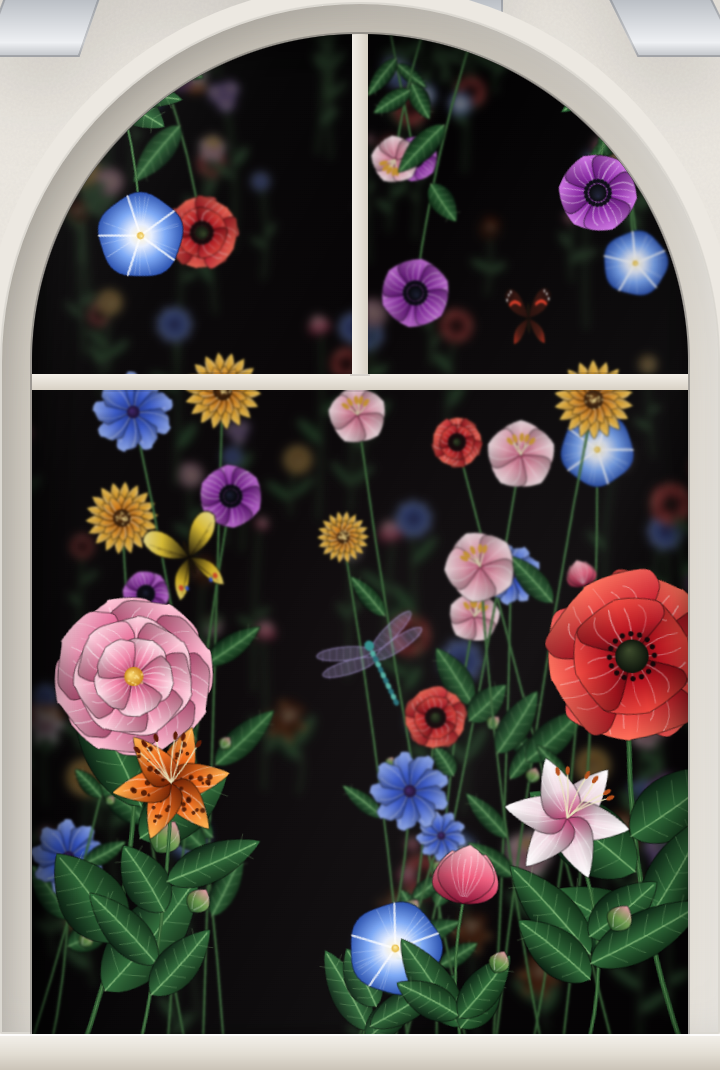
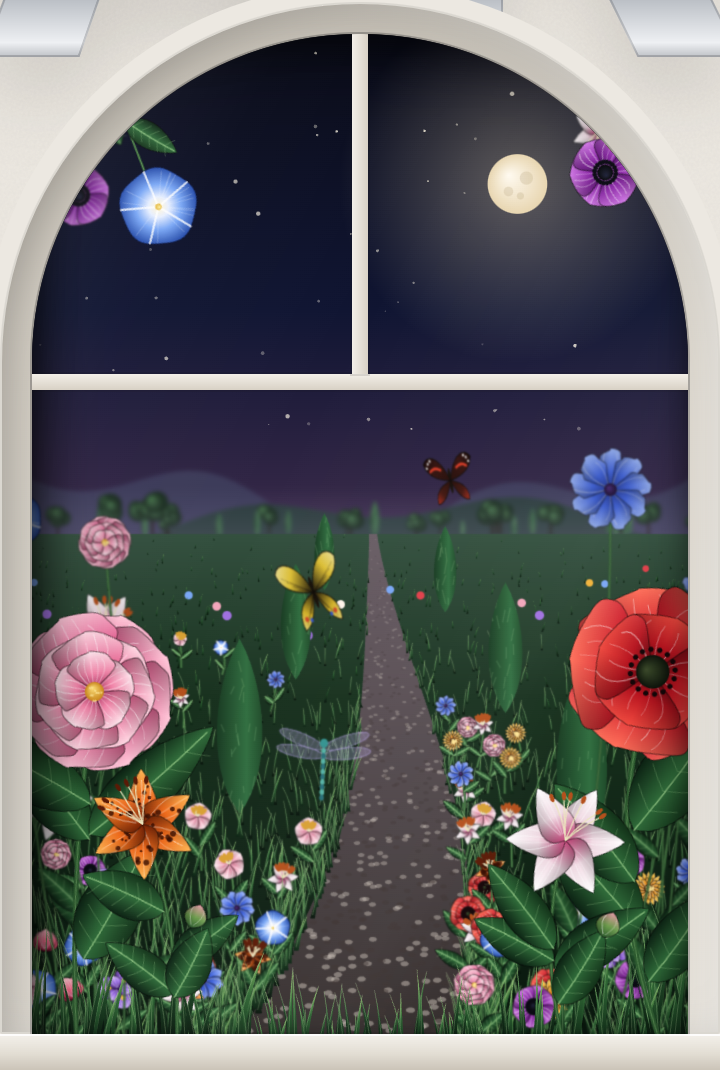
Chrome sample: give the window a real view
Night sky and moon, layered hills and tree line, a painted lawn with a
gravel path and receding cypresses, with the Flora blooms framing the
sides and tall grass against the glass.

Claude-Session: https://claude.ai/code/session_01CiHBQik5yBoamCM1rt8jkr

diff --git a/docs/redesign-samples/chrome.html b/docs/redesign-samples/chrome.html
@@ -71,8 +71,9 @@
   .pane { position: absolute; inset: 16px 16px 0; border-radius: 999px 999px 0 0; overflow: hidden; background: radial-gradient(ellipse 90% 70% at 50% 60%, #0f0b0d 0%, #030203 80%);
     box-shadow: 0 0 0 1px rgba(13,13,15,.25); }
   .pane canvas { position: absolute; top: -30px; left: -30px; width: calc(100% + 60px); height: calc(100% + 60px); display: block; will-change: transform; }
-  .pane .g-far { filter: blur(2.2px) brightness(.5) saturate(.85); }
-  .pane .g-mid { filter: blur(.5px) brightness(.88); }
+  .pane .g-far { filter: blur(1.1px) saturate(.8); }
+  .pane .g-lawn { filter: blur(.3px); }
+  .pane .g-mid { filter: blur(.4px) brightness(.9); }
   .pane .glass { position: absolute; inset: 0; pointer-events: none;
     background: linear-gradient(118deg, rgba(255,255,255,.10) 0%, rgba(255,255,255,.02) 22%, transparent 40%, rgba(255,255,255,.04) 70%, transparent 80%);
     box-shadow: inset 18px 0 24px -14px rgba(0,0,0,.85), inset 0 22px 30px -18px rgba(0,0,0,.8), inset -10px 0 20px -14px rgba(0,0,0,.6); }
@@ -217,7 +218,7 @@
         <div class="line"><a href="#looks"><span class="num">13.8×</span><span class="big">Faster, same model</span><span class="sm">Inside KV Capsules, the research that stops agents rereading their own rules.</span></a></div>
         <div class="line"><a href="#looks"><span class="big">Local CI with a bouncer</span><span class="sm">OctoCheck and the policy gate between GitHub and my desk.</span></a></div>
       </div>
-      <div class="window" aria-hidden="true"><div class="niche"><div class="pane"><canvas class="g-far"></canvas><canvas class="g-mid"></canvas><canvas class="g-near"></canvas><span class="glass"></span><span class="bar h"></span><span class="bar v"></span></div></div><div class="sill"></div></div>
+      <div class="window" aria-hidden="true"><div class="niche"><div class="pane"><canvas class="g-sky"></canvas><canvas class="g-far"></canvas><canvas class="g-lawn"></canvas><canvas class="g-mid"></canvas><canvas class="g-near"></canvas><span class="glass"></span><span class="bar h"></span><span class="bar v"></span></div></div><div class="sill"></div></div>
       <div class="lines r">
         <div class="line"><a href="#contents"><span class="big">“I am not middleware”</span><span class="sm">25 tickets shipped overnight, and what that did to my job.</span></a></div>
         <div class="line"><a href="#looks"><span class="big">Now showing: five tools</span><span class="sm">Research, local CI, a product and two developer tools.</span></a></div>
@@ -319,7 +320,7 @@
 (function () {
   var reduce = window.matchMedia('(prefers-reduced-motion: reduce)').matches;
   var pane = document.querySelector('.pane'); if (!pane) return;
-  var cFar = pane.querySelector('.g-far'), cMid = pane.querySelector('.g-mid'), cNear = pane.querySelector('.g-near');
+  var cSky = pane.querySelector('.g-sky'), cLawn = pane.querySelector('.g-lawn'), cFar = pane.querySelector('.g-far'), cMid = pane.querySelector('.g-mid'), cNear = pane.querySelector('.g-near');
   var W, H, DPR, S, M = 30, seed = 5, t0 = performance.now();
   var mid = [], near = [], flyers = [], px = 0, py = 0, tpx = 0, tpy = 0;
   function rnd() { seed = (seed * 16807) % 2147483647; return (seed - 1) / 2147483646; }
@@ -510,33 +511,111 @@
     g.restore();
   }
 
+  function blade(g, x, y, h, w, lean, dark) {
+    var tx = x + lean * h, ty = y - h;
+    g.beginPath(); g.moveTo(x - w / 2, y); g.quadraticCurveTo(x + lean * h * .3, y - h * .6, tx, ty); g.quadraticCurveTo(x + lean * h * .35 + w * .2, y - h * .55, x + w / 2, y); g.closePath();
+    var gr = g.createLinearGradient(x, y, tx, ty); gr.addColorStop(0, dark ? '#06120a' : '#0b2112'); gr.addColorStop(.55, dark ? '#1d4424' : '#2f6634'); gr.addColorStop(1, dark ? '#4f7f45' : '#8cbf66');
+    g.fillStyle = gr; g.fill();
+    if (h > 8) { g.beginPath(); g.moveTo(x, y - h * .1); g.quadraticCurveTo(x + lean * h * .3, y - h * .6, tx, ty); g.strokeStyle = 'rgba(210,240,180,.22)'; g.lineWidth = .5; g.stroke(); }
+  }
+  function tree(g, x, y, h, kind) {
+    if (kind === 'cypress') {
+      var w = h * .2;
+      g.beginPath(); g.moveTo(x, y);
+      g.bezierCurveTo(x - w * 1.1, y - h * .3, x - w * .6, y - h * .8, x, y - h);
+      g.bezierCurveTo(x + w * .6, y - h * .8, x + w * 1.1, y - h * .3, x, y); g.closePath();
+      var gr = g.createLinearGradient(x - w, 0, x + w, 0); gr.addColorStop(0, '#0e2615'); gr.addColorStop(.6, '#316e40'); gr.addColorStop(1, '#12301a');
+      g.fillStyle = gr; g.fill();
+      g.save(); g.clip(); g.strokeStyle = 'rgba(160,210,150,.18)'; g.lineWidth = .6;
+      for (var i = 0; i < h / 3; i++) { var yy = y - R(0, h), xx = x + R(-w * .6, w * .6); g.beginPath(); g.moveTo(xx, yy); g.lineTo(xx + R(-2, 2), yy - R(3, 7)); g.stroke(); }
+      g.restore();
+    } else {
+      g.fillStyle = '#1a1208'; g.fillRect(x - h * .03, y - h * .45, h * .06, h * .45);
+      for (var k = 0; k < 5; k++) {
+        var cx = x + R(-h * .22, h * .22), cy = y - h * R(.55, .85), rr = h * R(.2, .3);
+        var cg = g.createRadialGradient(cx - rr * .4, cy - rr * .4, 0, cx, cy, rr); cg.addColorStop(0, '#3f7a44'); cg.addColorStop(1, '#0c2012');
+        g.fillStyle = cg; g.beginPath(); g.arc(cx, cy, rr, 0, 7); g.fill();
+      }
+    }
+  }
+
   function build() {
     DPR = Math.min(window.devicePixelRatio || 1, 2);
     var r = pane.getBoundingClientRect(); W = r.width; H = r.height; if (W < 2 || H < 2) return false;
     S = W / 330; seed = 5; mid = []; near = []; flyers = [];
-    var LW = W + M * 2, LH = H + M * 2, i;
+    var LW = W + M * 2, LH = H + M * 2, hy = M + H * .5, vx = M + W * .52, i, g;
 
-    // far: a dense, dim bed of small flowers, softened by CSS blur
-    var g = size(cFar, LW, LH);
-    for (i = 0; i < 120; i++) {
-      var y = M + H * (1 - Math.pow(rnd(), 1.05)) + 20, x = R(0, LW), rr = R(5, 11) * S * (.7 + .5 * (y / LH));
-      var sp = spray(UPRIGHT[Math.floor(rnd() * UPRIGHT.length)], rr, R(20, 90) * S, false);
-      g.drawImage(sp.c, x - sp.w / 2, y - sp.h, sp.w, sp.h);
+    // sky: deep night, a painted moon and stars
+    g = size(cSky, LW, LH);
+    var sg = g.createLinearGradient(0, 0, 0, hy); sg.addColorStop(0, '#05060f'); sg.addColorStop(.6, '#101532'); sg.addColorStop(1, '#3a2a4a');
+    g.fillStyle = sg; g.fillRect(0, 0, LW, LH);
+    for (i = 0; i < 60; i++) { g.fillStyle = 'rgba(255,248,230,' + R(.2, .8) + ')'; g.beginPath(); g.arc(R(0, LW), R(0, hy * .85), R(.3, 1.1), 0, 7); g.fill(); }
+    var mx0 = M + W * .74, my0 = M + H * .15, mr = 15 * S;
+    var halo = g.createRadialGradient(mx0, my0, mr, mx0, my0, mr * 6); halo.addColorStop(0, 'rgba(255,238,200,.28)'); halo.addColorStop(1, 'rgba(255,238,200,0)');
+    g.fillStyle = halo; g.fillRect(0, 0, LW, LH);
+    var mg = g.createRadialGradient(mx0 - mr * .3, my0 - mr * .3, 0, mx0, my0, mr); mg.addColorStop(0, '#fffaf0'); mg.addColorStop(1, '#e8d6b0');
+    g.fillStyle = mg; g.beginPath(); g.arc(mx0, my0, mr, 0, 7); g.fill();
+    g.fillStyle = 'rgba(180,160,120,.25)'; [[.3, -.2, .22], [-.3, .25, .16], [.1, .4, .12]].forEach(function (c) { g.beginPath(); g.arc(mx0 + c[0] * mr, my0 + c[1] * mr, c[2] * mr, 0, 7); g.fill(); });
+
+    // far: two ranges of hills, a tree line, mist on the horizon
+    g = size(cFar, LW, LH);
+    function hills(y0, amp, col, seedOff) {
+      g.beginPath(); g.moveTo(0, LH);
+      for (var x = 0; x <= LW; x += 6) g.lineTo(x, y0 - amp * (.5 + .5 * Math.sin(x / (60 * S) + seedOff)) - amp * .4 * Math.sin(x / (23 * S) + seedOff * 2));
+      g.lineTo(LW, LH); g.closePath(); g.fillStyle = col; g.fill();
     }
-    for (i = 0; i < 14; i++) { var hsp = spray(HANGING[Math.floor(rnd() * HANGING.length)], R(5, 9) * S, R(20, 50) * S, false); g.save(); g.translate(R(0, LW), M - 6); g.rotate(Math.PI + R(-.4, .4)); g.drawImage(hsp.c, -hsp.w / 2, -hsp.h, hsp.w, hsp.h); g.restore(); }
+    hills(hy - 6 * S, 30 * S, '#3c3a60', 1.3);
+    hills(hy + 1, 16 * S, '#243a3a', 4.1);
+    for (i = 0; i < 34; i++) { var tx = R(0, LW); tree(g, tx, hy + R(0, 3) * S, R(9, 20) * S, rnd() < .45 ? 'cypress' : 'round'); }
+    var mist = g.createLinearGradient(0, hy - 24 * S, 0, hy + 16 * S); mist.addColorStop(0, 'rgba(170,160,200,0)'); mist.addColorStop(.6, 'rgba(170,160,200,.16)'); mist.addColorStop(1, 'rgba(170,160,200,0)');
+    g.fillStyle = mist; g.fillRect(0, hy - 24 * S, LW, 40 * S);
 
-    // mid: sprays rising from below and trailing from above
-    for (i = 0; i < 20; i++) mid.push({ sp: spray(UPRIGHT[Math.floor(rnd() * UPRIGHT.length)], R(12, 22) * S, R(90, 330) * S, rnd() < .4), x: M + R(-.05, 1.05) * W, y: M + H + 10, rot: R(-.25, .25), ph: R(0, 7), sw: R(.01, .025) });
-    for (i = 0; i < 7; i++) mid.push({ sp: spray(HANGING[Math.floor(rnd() * HANGING.length)], R(11, 18) * S, R(60, 170) * S, false), x: M + R(0, 1) * W, y: M - 10, rot: Math.PI + R(-.35, .35), ph: R(0, 7), sw: R(.01, .025) });
-    flyers.push(makeFlyer('swallowtail', 24 * S, M + W * .3, M + H * .5));
-    flyers.push(makeFlyer('admiral', 20 * S, M + W * .72, M + H * .3));
-    flyers.push(makeFlyer('dragonfly', 30 * S, M + W * .55, M + H * .62));
+    // lawn: a painted meadow receding to the horizon, a gravel path, beds of small flowers, trees at middle distance
+    g = size(cLawn, LW, LH);
+    var lg = g.createLinearGradient(0, hy, 0, LH); lg.addColorStop(0, '#34503f'); lg.addColorStop(.3, '#17301d'); lg.addColorStop(1, '#06120a');
+    g.fillStyle = lg; g.fillRect(0, hy, LW, LH - hy);
+    function pathAt(y) { var d = (y - hy) / (LH - hy); return { c: vx + Math.sin(d * 3.2 + .6) * 34 * S * d, hw: lerp(2 * S, W * .2, Math.pow(d, 1.25)) }; }
+    g.beginPath();
+    for (var yy = hy; yy <= LH; yy += 4) { var pl = pathAt(yy); g.lineTo(pl.c - pl.hw, yy); }
+    for (yy = LH; yy >= hy; yy -= 4) { var pr = pathAt(yy); g.lineTo(pr.c + pr.hw, yy); }
+    g.closePath();
+    var pg = g.createLinearGradient(0, hy, 0, LH); pg.addColorStop(0, '#6a5e66'); pg.addColorStop(1, '#2e2826');
+    g.fillStyle = pg; g.fill();
+    for (i = 0; i < 700; i++) { var gy = lerp(hy, LH, Math.pow(rnd(), .7)), pp = pathAt(gy), d0 = (gy - hy) / (LH - hy), st = .4 + d0 * 2.2; g.fillStyle = 'rgba(' + (rnd() < .5 ? '210,200,190' : '60,50,48') + ',' + (.15 + d0 * .4) + ')'; g.beginPath(); g.ellipse(pp.c + R(-pp.hw, pp.hw) * .95, gy, st, st * .6, 0, 0, 7); g.fill(); }
+    // everything on the lawn is painted back to front
+    var items = [];
+    for (i = 0; i < 2600; i++) items.push({ t: 'b', d: Math.pow(rnd(), .75) });
+    for (i = 0; i < 90; i++) items.push({ t: 'f', d: Math.pow(rnd(), .9) });
+    [[-1, .1], [1, .14], [-1, .26], [1, .32], [-1, .5], [1, .58]].forEach(function (c) { items.push({ t: 'c', d: c[1], side: c[0] }); });
+    items.sort(function (a, b) { return a.d - b.d; });
+    items.forEach(function (it) {
+      var y = lerp(hy, LH, it.d), p = pathAt(y);
+      if (it.t === 'c') { tree(g, p.c + it.side * (p.hw + lerp(14, 90, it.d) * S), y, lerp(26, 150, it.d) * S, 'cypress'); return; }
+      var x = R(0, LW);
+      if (Math.abs(x - p.c) < p.hw * .92) x = p.c + (x < p.c ? -1 : 1) * (p.hw * R(.92, 1.3));
+      if (it.t === 'b') blade(g, x, y + 1, lerp(2, 30, it.d) * S * R(.6, 1.2), lerp(.5, 3.2, it.d) * S, R(-.35, .35), rnd() < .5);
+      else {
+        var rr = lerp(1.4, 11, it.d) * S, kind = UPRIGHT[Math.floor(rnd() * UPRIGHT.length)];
+        if (rr < 3.5) { g.fillStyle = ['#e0404a', '#f2b33a', '#7aa7f5', '#f3a6bb', '#a070e0', '#fff4ea'][Math.floor(rnd() * 6)]; g.beginPath(); g.arc(x, y - rr, rr * .8, 0, 7); g.fill(); }
+        else { var sp = spray(kind, rr, rr * R(2, 4), false); g.drawImage(sp.c, x - sp.w / 2, y - sp.h, sp.w, sp.h); }
+      }
+    });
 
-    // near: large blooms pressed against the glass
-    var N = [['peony', .07, .36, 40], ['tiger', .16, .26, 30], ['poppy', 1.0, .38, 42], ['lily', .84, .22, 32], ['glory', .5, .1, 24], ['tulip', .66, .14, 26]];
+    // mid: tall sprays framing the sides, butterflies over the lawn
+    for (i = 0; i < 12; i++) { var side = i % 2 ? 1 : -1, xx0 = side < 0 ? R(-.06, .22) : R(.78, 1.06); mid.push({ sp: spray(UPRIGHT[Math.floor(rnd() * UPRIGHT.length)], R(12, 21) * S, R(110, 300) * S, rnd() < .4), x: M + xx0 * W, y: M + H + 10, rot: side * R(.02, .2), ph: R(0, 7), sw: R(.01, .025) }); }
+    for (i = 0; i < 4; i++) mid.push({ sp: spray(HANGING[Math.floor(rnd() * HANGING.length)], R(11, 16) * S, R(50, 110) * S, false), x: M + (i < 2 ? R(0, .2) : R(.8, 1)) * W, y: M - 10, rot: Math.PI + R(-.35, .35), ph: R(0, 7), sw: R(.01, .025) });
+    flyers.push(makeFlyer('swallowtail', 22 * S, M + W * .36, M + H * .58));
+    flyers.push(makeFlyer('admiral', 17 * S, M + W * .66, M + H * .42));
+    flyers.push(makeFlyer('dragonfly', 26 * S, M + W * .5, M + H * .7));
+
+    // near: large blooms and tall grass pressed against the glass
+    var N = [['peony', .07, .34, 40], ['tiger', .22, .22, 28], ['poppy', .97, .36, 42], ['lily', .82, .2, 30]];
     N.forEach(function (n) { near.push({ sp: spray(n[0], n[3] * S, H * n[2], true), x: M + W * n[1], y: M + H + 14, rot: R(-.12, .12), ph: R(0, 7), sw: R(.012, .028) }); });
-    near.push({ sp: spray('glory', 22 * S, H * .22, false), x: M + W * .08, y: M - 14, rot: Math.PI - .35, ph: R(0, 7), sw: .02 });
-    near.push({ sp: spray('anemone', 20 * S, H * .18, false), x: M + W * .95, y: M - 14, rot: Math.PI + .4, ph: R(0, 7), sw: .02 });
+    var tuft = mk(W + M * 2, 90 * S), tg = tuft.g;
+    for (i = 0; i < 160; i++) { var bx = R(0, tuft.w), edge = Math.min(bx, tuft.w - bx) / tuft.w; blade(tg, bx, tuft.h, R(30, 86) * S * (1 - edge * 1.2), R(2.5, 5) * S, R(-.3, .3), rnd() < .5); }
+    near.unshift({ sp: tuft, x: M + W / 2, y: M + H + 8, rot: 0, ph: 0, sw: .004 });
+    near.push({ sp: spray('glory', 20 * S, H * .2, false), x: M + W * .08, y: M - 14, rot: Math.PI - .35, ph: R(0, 7), sw: .02 });
+    near.push({ sp: spray('anemone', 18 * S, H * .16, false), x: M + W * .95, y: M - 14, rot: Math.PI + .4, ph: R(0, 7), sw: .02 });
 
     size(cMid, LW, LH); size(cNear, LW, LH);
     return true;
@@ -569,7 +648,9 @@
     var gn = cNear.getContext('2d'); gn.setTransform(DPR, 0, 0, DPR, 0, 0); gn.clearRect(0, 0, LW, LH);
     drawSprays(gn, near, t);
     var A = 16;
-    cFar.style.transform = 'translate(' + (-px * A * .12) + 'px,' + (-py * A * .08) + 'px)';
+    cSky.style.transform = 'translate(' + (-px * A * .03) + 'px,' + (-py * A * .02) + 'px)';
+    cFar.style.transform = 'translate(' + (-px * A * .1) + 'px,' + (-py * A * .06) + 'px)';
+    cLawn.style.transform = 'translate(' + (-px * A * .28) + 'px,' + (-py * A * .16) + 'px)';
     cMid.style.transform = 'translate(' + (-px * A * .45) + 'px,' + (-py * A * .3) + 'px)';
     cNear.style.transform = 'translate(' + (-px * A) + 'px,' + (-py * A * .6) + 'px)';
     if (!reduce) requestAnimationFrame(frame);
